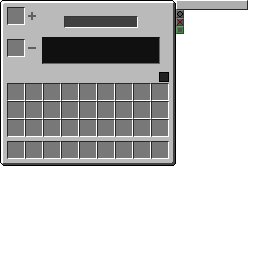
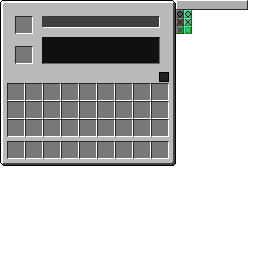
Text display fix + Color updates
Fixed font display overlap on some machines
Added gas color display to the gas storage tank GUI interface
Added a color gradient like the infinite in Avaritia to display "infinite"

--中文--
修复部分机器的字体显示重叠
对气体储罐GUI界面添加了气体颜色显示
添加了类似于 Avaritia 中的无限的颜色渐变以显示“无限”

Changed region(s): [[0.0, 0.0, 0.25, 0.25], [0.5312, 0.0625, 0.625, 0.125], [0.7188, 0.0312, 0.75, 0.1562]]

diff --git a/src/main/java/mekanism/client/gui/GuiGasTank.java b/src/main/java/mekanism/client/gui/GuiGasTank.java
@@ -1,6 +1,7 @@
 package mekanism.client.gui;
 
 import mekanism.api.TileNetworkList;
+import mekanism.api.gas.GasStack;
 import mekanism.client.gui.element.GuiRedstoneControl;
 import mekanism.client.gui.element.GuiSlot;
 import mekanism.client.gui.element.GuiSlot.SlotOverlay;
@@ -8,6 +9,7 @@ import mekanism.client.gui.element.GuiSlot.SlotType;
 import mekanism.client.gui.element.tab.GuiSecurityTab;
 import mekanism.client.gui.element.tab.GuiSideConfigurationTab;
 import mekanism.client.gui.element.tab.GuiTransporterConfigTab;
+import mekanism.client.render.MekanismRenderer;
 import mekanism.client.sound.SoundHandler;
 import mekanism.common.Mekanism;
 import mekanism.common.inventory.container.ContainerGasTank;
@@ -17,6 +19,9 @@ import mekanism.common.tile.TileEntityGasTank.GasMode;
 import mekanism.common.util.LangUtils;
 import mekanism.common.util.MekanismUtils;
 import mekanism.common.util.MekanismUtils.ResourceType;
+import mekanism.common.util.TextUtils;
+import net.minecraft.client.renderer.texture.TextureAtlasSprite;
+import net.minecraft.client.renderer.texture.TextureMap;
 import net.minecraft.entity.player.InventoryPlayer;
 import net.minecraft.init.SoundEvents;
 import net.minecraft.util.ResourceLocation;
@@ -35,17 +40,17 @@ public class GuiGasTank extends GuiMekanismTile<TileEntityGasTank> {
         addGuiElement(new GuiSecurityTab(this, tileEntity, resource));
         addGuiElement(new GuiSideConfigurationTab(this, tileEntity, resource));
         addGuiElement(new GuiTransporterConfigTab(this, 34, tileEntity, resource));
-        addGuiElement(new GuiSlot(SlotType.OUTPUT, this, resource, 7, 7).with(SlotOverlay.PLUS));
-        addGuiElement(new GuiSlot(SlotType.INPUT, this, resource, 7, 39).with(SlotOverlay.MINUS));
+        addGuiElement(new GuiSlot(SlotType.INPUT, this, resource, 15, 16).with(SlotOverlay.PLUS));
+        addGuiElement(new GuiSlot(SlotType.OUTPUT, this, resource, 15, 46).with(SlotOverlay.MINUS));
     }
 
     @Override
     protected void drawGuiContainerForegroundLayer(int mouseX, int mouseY) {
-        String stored = "" + (tileEntity.gasTank.getStored() == Integer.MAX_VALUE ? LangUtils.localize("gui.infinite") : tileEntity.gasTank.getStored());
-        String capacityInfo = stored + " / " + (tileEntity.tier.getStorage() == Integer.MAX_VALUE ? LangUtils.localize("gui.infinite") : tileEntity.tier.getStorage());
+        String stored = "" + (tileEntity.gasTank.getStored() == Integer.MAX_VALUE ?  "" : tileEntity.gasTank.getStored() + " / ");
+        String capacityInfo = stored  + (tileEntity.tier.getStorage() == Integer.MAX_VALUE ? TextUtils.makeFabulous(LangUtils.localize("gui.infinite")) : tileEntity.tier.getStorage());
         fontRenderer.drawString(tileEntity.getName(), (xSize / 2) - (fontRenderer.getStringWidth(tileEntity.getName()) / 2), 6, 0x404040);
-        fontRenderer.drawString(capacityInfo, 45, 40, 0x33ff99);
-        renderScaledText(LangUtils.localize("gui.gas") + ": " + (tileEntity.gasTank.getGas() != null ? tileEntity.gasTank.getGas().getGas().getLocalizedName() : LangUtils.localize("gui.none")), 45, 49, 0x33ff99, 112);
+        renderScaledText(LangUtils.localize("gui.gas") + ": " + (tileEntity.gasTank.getGas() != null ? tileEntity.gasTank.getGas().getGas().getLocalizedName() : LangUtils.localize("gui.none")), 45, 40, 0x33ff99, 112);
+        fontRenderer.drawString(capacityInfo, 45, 50, 0x33ff99);
         fontRenderer.drawString(LangUtils.localize("container.inventory"), 8, ySize - 96 + 2, 0x404040);
         String name = LangUtils.localize(tileEntity.dumping.getLangKey());
         fontRenderer.drawString(name, 156 - fontRenderer.getStringWidth(name), 73, 0x404040);
@@ -58,9 +63,12 @@ public class GuiGasTank extends GuiMekanismTile<TileEntityGasTank> {
         super.drawGuiContainerBackgroundLayer(xAxis, yAxis);
         int displayInt = GasMode.chooseByMode(tileEntity.dumping, 10, 18, 26);
         drawTexturedModalRect(guiLeft + 160, guiTop + 73, 176, displayInt, 8, 8);
-        if (tileEntity.gasTank.getGas() != null) {
-            int scale = (int) (((double) tileEntity.gasTank.getStored() / tileEntity.tier.getStorage()) * 72);
-            drawTexturedModalRect(guiLeft + 65, guiTop + 17, 176, 0, scale, 10);
+        GasStack gas = tileEntity.gasTank.getGas();
+        if (gas != null) {
+            MekanismRenderer.color(gas);
+            int scale = (int) (((double) tileEntity.gasTank.getStored() / tileEntity.tier.getStorage()) * 116);
+            displayGauge(43, 17, scale, 10, gas.getGas().getSprite());
+            MekanismRenderer.resetColor();
         }
     }
 
@@ -79,5 +87,12 @@ public class GuiGasTank extends GuiMekanismTile<TileEntityGasTank> {
     @Override
     protected ResourceLocation getGuiLocation() {
         return MekanismUtils.getResource(ResourceType.GUI, "GuiGasTank.png");
+    }
+
+    public void displayGauge(int xPos, int yPos, int sizeX, int sizeY, TextureAtlasSprite icon) {
+        if (icon != null) {
+            mc.renderEngine.bindTexture(TextureMap.LOCATION_BLOCKS_TEXTURE);
+            drawTexturedModalRect(guiLeft + xPos, guiTop + yPos, icon, sizeX, sizeY);
+        }
     }
 }

diff --git a/src/main/java/mekanism/client/gui/chemical/GuiChemicalInfuser.java b/src/main/java/mekanism/client/gui/chemical/GuiChemicalInfuser.java
@@ -31,6 +31,7 @@ public class GuiChemicalInfuser extends GuiChemical<TileEntityChemicalInfuser> {
 
     public GuiChemicalInfuser(InventoryPlayer inventory, TileEntityChemicalInfuser tile) {
         super(tile, new ContainerChemicalInfuser(inventory, tile));
+        ySize += 11;
         ResourceLocation resource = getGuiLocation();
         addGuiElement(new GuiSecurityTab(this, tileEntity, resource));
         addGuiElement(new GuiRedstoneControl(this, tileEntity, resource));
@@ -42,30 +43,30 @@ public class GuiChemicalInfuser extends GuiChemical<TileEntityChemicalInfuser> {
             return Arrays.asList(LangUtils.localize("gui.using") + ": " + usage + "/t",
                     LangUtils.localize("gui.needed") + ": " + MekanismUtils.getEnergyDisplay(tileEntity.getMaxEnergy() - tileEntity.getEnergy()));
         }, this, resource));
-        addGuiElement(new GuiGasGauge(() -> tileEntity.leftTank, GuiGauge.Type.STANDARD_RED, this, resource, 25, 13));
-        addGuiElement(new GuiGasGauge(() -> tileEntity.centerTank, GuiGauge.Type.STANDARD_BLUE, this, resource, 79, 4));
-        addGuiElement(new GuiGasGauge(() -> tileEntity.rightTank, GuiGauge.Type.STANDARD_ORANGE, this, resource, 133, 13));
-        addGuiElement(new GuiSlot(SlotType.POWER, this, resource, 154, 4).with(SlotOverlay.POWER));
-        addGuiElement(new GuiSlot(SlotType.EXTRA, this, resource, 154, 55).with(SlotOverlay.MINUS));
-        addGuiElement(new GuiSlot(SlotType.INPUT, this, resource, 4, 55).with(SlotOverlay.MINUS));
-        addGuiElement(new GuiSlot(SlotType.OUTPUT, this, resource, 79, 64).with(SlotOverlay.PLUS));
+        addGuiElement(new GuiGasGauge(() -> tileEntity.leftTank, GuiGauge.Type.STANDARD_RED, this, resource, 25, 13 + 11));
+        addGuiElement(new GuiGasGauge(() -> tileEntity.centerTank, GuiGauge.Type.STANDARD_BLUE, this, resource, 79, 4 + 11));
+        addGuiElement(new GuiGasGauge(() -> tileEntity.rightTank, GuiGauge.Type.STANDARD_ORANGE, this, resource, 133, 13 + 11));
+        addGuiElement(new GuiSlot(SlotType.POWER, this, resource, 154, 4 + 11).with(SlotOverlay.POWER));
+        addGuiElement(new GuiSlot(SlotType.EXTRA, this, resource, 154, 55 + 11).with(SlotOverlay.MINUS));
+        addGuiElement(new GuiSlot(SlotType.INPUT, this, resource, 4, 55 + 11).with(SlotOverlay.MINUS));
+        addGuiElement(new GuiSlot(SlotType.OUTPUT, this, resource, 79, 64 + 11).with(SlotOverlay.PLUS));
         addGuiElement(new GuiProgress(new IProgressInfoHandler() {
             @Override
             public double getProgress() {
                 return tileEntity.getActive() ? 1 : 0;
             }
-        }, ProgressBar.SMALL_RIGHT, this, resource, 45, 38));
+        }, ProgressBar.SMALL_RIGHT, this, resource, 45, 38 + 11));
         addGuiElement(new GuiProgress(new IProgressInfoHandler() {
             @Override
             public double getProgress() {
                 return tileEntity.getActive() ? 1 : 0;
             }
-        }, ProgressBar.SMALL_LEFT, this, resource, 99, 38));
+        }, ProgressBar.SMALL_LEFT, this, resource, 99, 38 + 11));
     }
 
     @Override
     protected ResourceLocation getGuiLocation() {
-        return MekanismUtils.getResource(ResourceType.GUI, "GuiChemical.png");
+        return MekanismUtils.getResource(ResourceType.GUI, "GuiChemicalLog.png");
     }
 
     @Override

diff --git a/src/main/java/mekanism/common/item/ItemBlockBasic.java b/src/main/java/mekanism/common/item/ItemBlockBasic.java
@@ -21,6 +21,7 @@ import mekanism.common.tile.TileEntityMultiblock;
 import mekanism.common.util.ItemDataUtils;
 import mekanism.common.util.LangUtils;
 import mekanism.common.util.MekanismUtils;
+import mekanism.common.util.TextUtils;
 import net.minecraft.block.Block;
 import net.minecraft.block.state.IBlockState;
 import net.minecraft.client.settings.GameSettings;
@@ -174,14 +175,14 @@ public class ItemBlockBasic extends ItemBlock implements IEnergizedItem, ITierIt
                     InventoryBin inv = new InventoryBin(itemstack);
                     if (inv.getItemCount() > 0) {
                         list.add(EnumColor.BRIGHT_GREEN + inv.getItemType().getDisplayName());
-                        String amountStr = inv.getItemCount() == Integer.MAX_VALUE ? LangUtils.localize("gui.infinite") : "" + inv.getItemCount();
+                        String amountStr = inv.getItemCount() == Integer.MAX_VALUE ? TextUtils.makeFabulous(LangUtils.localize("gui.infinite")) : "" + inv.getItemCount();
                         list.add(EnumColor.PURPLE + LangUtils.localize("tooltip.itemAmount") + ": " + EnumColor.GREY + amountStr);
                     } else {
                         list.add(EnumColor.DARK_RED + LangUtils.localize("gui.empty"));
                     }
                     int cap = BinTier.values()[getBaseTier(itemstack).ordinal()].getStorage();
-                    list.add(EnumColor.INDIGO + LangUtils.localize("tooltip.capacity") + ": " + EnumColor.GREY +
-                            (cap == Integer.MAX_VALUE ? LangUtils.localize("gui.infinite") : cap) + " " + LangUtils.localize("transmission.Items"));
+                    list.add(EnumColor.INDIGO + LangUtils.localize("tooltip.capacity") + ": " + EnumColor.GREY + (
+                            cap == Integer.MAX_VALUE ? TextUtils.makeFabulous(LangUtils.localize("gui.infinite")) : cap) + " " + EnumColor.GREY +  LangUtils.localize("transmission.Items"));
                 } else if (type == BasicBlockType.INDUCTION_CELL) {
                     InductionCellTier tier = InductionCellTier.values()[getBaseTier(itemstack).ordinal()];
                     list.add(tier.getBaseTier().getColor() + LangUtils.localize("tooltip.capacity") + ": " + EnumColor.GREY + MekanismUtils.getEnergyDisplay(tier.getMaxEnergy()));

diff --git a/src/main/java/mekanism/common/util/TextUtils.java b/src/main/java/mekanism/common/util/TextUtils.java
@@ -1,0 +1,60 @@
+package mekanism.common.util;
+
+import mekanism.api.EnumColor;
+import net.minecraft.client.Minecraft;
+
+import mekanism.api.EnumColor.*;
+
+import static mekanism.api.EnumColor.*;
+
+
+public class TextUtils {
+
+    private static final EnumColor[] fabulousness = new EnumColor[]{
+            BLACK,
+            RED,
+            DARK_GREEN,
+            BROWN,
+            DARK_BLUE,
+            PURPLE,
+            DARK_AQUA,
+            GREY,
+            DARK_GREY,
+            BRIGHT_PINK,
+            BRIGHT_GREEN,
+            YELLOW,
+            INDIGO,
+            PINK,
+            ORANGE,
+            WHITE};
+
+    public static String makeFabulous(String input) {
+        return ludicrousFormatting(input, fabulousness, 80.0, 1, 1);
+    }
+
+    private static final EnumColor[] sanic = new EnumColor[] { INDIGO, INDIGO, INDIGO, INDIGO, WHITE, INDIGO, WHITE, WHITE, INDIGO, WHITE, WHITE, INDIGO, RED, WHITE, DARK_GREY, DARK_GREY, DARK_GREY, DARK_GREY, DARK_GREY, DARK_GREY, DARK_GREY, DARK_GREY, DARK_GREY, DARK_GREY, DARK_GREY, DARK_GREY, DARK_GREY, DARK_GREY, DARK_GREY, DARK_GREY };
+
+    public static String makeSANIC(String input) {
+        return ludicrousFormatting(input, sanic, 50.0, 2, 1);
+    }
+
+    public static String ludicrousFormatting(String input, EnumColor[] colours, double delay, int step, int posstep) {
+        StringBuilder sb = new StringBuilder(input.length() * 3);
+        if (delay <= 0) {
+            delay = 0.001;
+        }
+
+        int offset = (int) Math.floor(Minecraft.getSystemTime() / delay) % colours.length;
+
+        for (int i = 0; i < input.length(); i++) {
+            char c = input.charAt(i);
+
+            int col = ((i * posstep) + colours.length - offset) % colours.length;
+
+            sb.append(colours[col].toString());
+            sb.append(c);
+        }
+
+        return sb.toString();
+    }
+}

diff --git a/src/main/java/mekanism/common/item/ItemBlockGasTank.java b/src/main/java/mekanism/common/item/ItemBlockGasTank.java
@@ -22,6 +22,7 @@ import mekanism.common.tile.TileEntityGasTank;
 import mekanism.common.util.ItemDataUtils;
 import mekanism.common.util.LangUtils;
 import mekanism.common.util.SecurityUtils;
+import mekanism.common.util.TextUtils;
 import net.minecraft.block.Block;
 import net.minecraft.block.state.IBlockState;
 import net.minecraft.client.Minecraft;
@@ -125,11 +126,11 @@ public class ItemBlockGasTank extends ItemBlock implements IGasItem, ISustainedI
         if (gasStack == null) {
             list.add(EnumColor.DARK_RED + LangUtils.localize("gui.empty") + ".");
         } else {
-            String amount = gasStack.amount == Integer.MAX_VALUE ? LangUtils.localize("gui.infinite") : Integer.toString(gasStack.amount);
+            String amount = gasStack.amount == Integer.MAX_VALUE ? TextUtils.makeFabulous(LangUtils.localize("gui.infinite")) : Integer.toString(gasStack.amount);
             list.add(EnumColor.ORANGE + gasStack.getGas().getLocalizedName() + ": " + EnumColor.GREY + amount);
         }
         int cap = GasTankTier.values()[getBaseTier(itemstack).ordinal()].getStorage();
-        list.add(EnumColor.INDIGO + LangUtils.localize("tooltip.capacity") + ": " + EnumColor.GREY + (cap == Integer.MAX_VALUE ? LangUtils.localize("gui.infinite") : cap));
+        list.add(EnumColor.INDIGO + LangUtils.localize("tooltip.capacity") + ": " + EnumColor.GREY + (cap == Integer.MAX_VALUE ? TextUtils.makeFabulous(LangUtils.localize("gui.infinite")) : cap));
 
         if (!MekKeyHandler.getIsKeyPressed(MekanismKeyHandler.sneakKey)) {
             list.add(LangUtils.localize("tooltip.hold") + " " + EnumColor.AQUA + GameSettings.getKeyDisplayString(MekanismKeyHandler.sneakKey.getKeyCode()) +

diff --git a/src/main/java/mekanism/common/item/ItemBlockMachine.java b/src/main/java/mekanism/common/item/ItemBlockMachine.java
@@ -196,14 +196,14 @@ public class ItemBlockMachine extends ItemBlock implements IEnergizedItem, ISpec
                 FluidStack fluidStack = getFluidStack(itemstack);
                 if (fluidStack != null) {
                     int amount = getFluidStack(itemstack).amount;
-                    String amountStr = amount == Integer.MAX_VALUE ? LangUtils.localize("gui.infinite") : amount + "mB";
+                    String amountStr = amount == Integer.MAX_VALUE ? TextUtils.makeFabulous(LangUtils.localize("gui.infinite")) : amount + "mB";
                     list.add(EnumColor.AQUA + LangUtils.localizeFluidStack(fluidStack) + ": " + EnumColor.GREY + amountStr);
                 } else {
                     list.add(EnumColor.DARK_RED + LangUtils.localize("gui.empty") + ".");
                 }
                 int cap = FluidTankTier.values()[getBaseTier(itemstack).ordinal()].getStorage();
                 list.add(EnumColor.INDIGO + LangUtils.localize("tooltip.capacity") + ": " + EnumColor.GREY +
-                        (cap == Integer.MAX_VALUE ? LangUtils.localize("gui.infinite") : cap + " mB"));
+                        (cap == Integer.MAX_VALUE ? TextUtils.makeFabulous(LangUtils.localize("gui.infinite")) : cap + " mB"));
             }
 
             if (type == MachineType.QUANTUM_ENTANGLOPORTER) {

diff --git a/src/main/java/mekanism/client/gui/element/gauge/GuiFluidGauge.java b/src/main/java/mekanism/client/gui/element/gauge/GuiFluidGauge.java
@@ -5,6 +5,7 @@ import mekanism.client.gui.IGuiWrapper;
 import mekanism.client.render.MekanismRenderer;
 import mekanism.client.render.MekanismRenderer.FluidType;
 import mekanism.common.util.LangUtils;
+import mekanism.common.util.TextUtils;
 import net.minecraft.client.renderer.texture.TextureAtlasSprite;
 import net.minecraft.util.ResourceLocation;
 import net.minecraftforge.fluids.FluidStack;
@@ -59,7 +60,7 @@ public class GuiFluidGauge extends GuiTankGauge<FluidStack, FluidTank> {
             return dummyType.getLocalizedName();
         }
         FluidTank tank = infoHandler.getTank();
-        String amountStr = tank.getFluidAmount() == Integer.MAX_VALUE ? LangUtils.localize("gui.infinite") : tank.getFluidAmount() + " mB";
+        String amountStr = tank.getFluidAmount() == Integer.MAX_VALUE ? TextUtils.makeFabulous(LangUtils.localize("gui.infinite")) : tank.getFluidAmount() + " mB";
         return tank.getFluid() != null ? LangUtils.localizeFluidStack(tank.getFluid()) + ": " + amountStr : LangUtils.localize("gui.empty");
     }
 

diff --git a/src/main/java/mekanism/common/inventory/container/ContainerChemicalInfuser.java b/src/main/java/mekanism/common/inventory/container/ContainerChemicalInfuser.java
@@ -71,9 +71,15 @@ public class ContainerChemicalInfuser extends ContainerMekanism<TileEntityChemic
 
     @Override
     protected void addSlots() {
-        addSlotToContainer(new SlotStorageTank(tileEntity, 0, 5, 56));
-        addSlotToContainer(new SlotStorageTank(tileEntity, 1, 155, 56));
-        addSlotToContainer(new SlotStorageTank(tileEntity, 2, 80, 65));
-        addSlotToContainer(new SlotDischarge(tileEntity, 3, 155, 5));
+        addSlotToContainer(new SlotStorageTank(tileEntity, 0, 5, 56 + 11));
+        addSlotToContainer(new SlotStorageTank(tileEntity, 1, 155, 56 + 11));
+        addSlotToContainer(new SlotStorageTank(tileEntity, 2, 80, 65 + 11));
+        addSlotToContainer(new SlotDischarge(tileEntity, 3, 155, 5 + 11));
     }
+
+    @Override
+    protected int getInventoryOffset() {
+        return 84 + 11;
+    }
+
 }

diff --git a/src/main/java/mekanism/client/render/tileentity/RenderBin.java b/src/main/java/mekanism/client/render/tileentity/RenderBin.java
@@ -3,6 +3,7 @@ package mekanism.client.render.tileentity;
 import mekanism.api.Coord4D;
 import mekanism.common.tile.TileEntityBin;
 import mekanism.common.util.LangUtils;
+import mekanism.common.util.TextUtils;
 import net.minecraft.client.Minecraft;
 import net.minecraft.client.gui.FontRenderer;
 import net.minecraft.client.renderer.GlStateManager;
@@ -30,7 +31,7 @@ public class RenderBin extends TileEntitySpecialRenderer<TileEntityBin> {
         if (!itemType.isEmpty()) {
             String amount = Integer.toString(clientAmount);
             if (clientAmount == Integer.MAX_VALUE) {
-                amount = LangUtils.localize("gui.infinite");
+                amount = TextUtils.makeFabulous(LangUtils.localize("gui.infinite"));
             }
             setLightmapDisabled(true);
             GlStateManager.pushMatrix();

diff --git a/src/main/java/mekanism/common/util/MekanismUtils.java b/src/main/java/mekanism/common/util/MekanismUtils.java
@@ -692,7 +692,7 @@ public final class MekanismUtils {
      */
     public static String getEnergyDisplay(double energy) {
         if (energy == Double.MAX_VALUE) {
-            return LangUtils.localize("gui.infinite");
+            return TextUtils.makeFabulous(LangUtils.localize("gui.infinite"));
         }
         switch (MekanismConfig.current().general.energyUnit.val()) {
             case J:
@@ -709,7 +709,7 @@ public final class MekanismUtils {
 
     public static String getEnergyDisplay(double energy, double max) {
         if (energy == Double.MAX_VALUE) {
-            return LangUtils.localize("gui.infinite");
+            return TextUtils.makeFabulous(LangUtils.localize("gui.infinite"));
         }
         String energyString = getEnergyDisplay(energy);
         String maxString = getEnergyDisplay(max);

diff --git a/src/main/java/mekanism/client/jei/RecipeRegistryHelper.java b/src/main/java/mekanism/client/jei/RecipeRegistryHelper.java
@@ -224,8 +224,8 @@ public class RecipeRegistryHelper {
             return;
         }
         addRecipes(registry, Recipe.CHEMICAL_INFUSER, ChemicalInfuserRecipeWrapper::new);
-        registry.addRecipeClickArea(GuiChemicalInfuser.class, 47, 39, 28, 8, Recipe.CHEMICAL_INFUSER.getJEICategory());
-        registry.addRecipeClickArea(GuiChemicalInfuser.class, 101, 39, 28, 8, Recipe.CHEMICAL_INFUSER.getJEICategory());
+        registry.addRecipeClickArea(GuiChemicalInfuser.class, 47, 39 + 11, 28, 8, Recipe.CHEMICAL_INFUSER.getJEICategory());
+        registry.addRecipeClickArea(GuiChemicalInfuser.class, 101, 39 + 11, 28, 8, Recipe.CHEMICAL_INFUSER.getJEICategory());
         registerRecipeItem(registry, MachineType.CHEMICAL_INFUSER, Recipe.CHEMICAL_INFUSER);
     }
 

diff --git a/src/main/java/mekanism/client/gui/GuiElectrolyticSeparator.java b/src/main/java/mekanism/client/gui/GuiElectrolyticSeparator.java
@@ -86,7 +86,8 @@ public class GuiElectrolyticSeparator extends GuiMekanismTile<TileEntityElectrol
 
     @Override
     protected void drawGuiContainerForegroundLayer(int mouseX, int mouseY) {
-        fontRenderer.drawString(tileEntity.getName(), 45, 6, 0x404040);
+
+        fontRenderer.drawString(tileEntity.getName(), (xSize / 2) - (fontRenderer.getStringWidth(tileEntity.getName()) / 2), 6, 0x404040);
         String name = LangUtils.localize(tileEntity.dumpLeft.getLangKey());
         renderScaledText(name, 21, 73, 0x404040, 66);
         name = LangUtils.localize(tileEntity.dumpRight.getLangKey());
